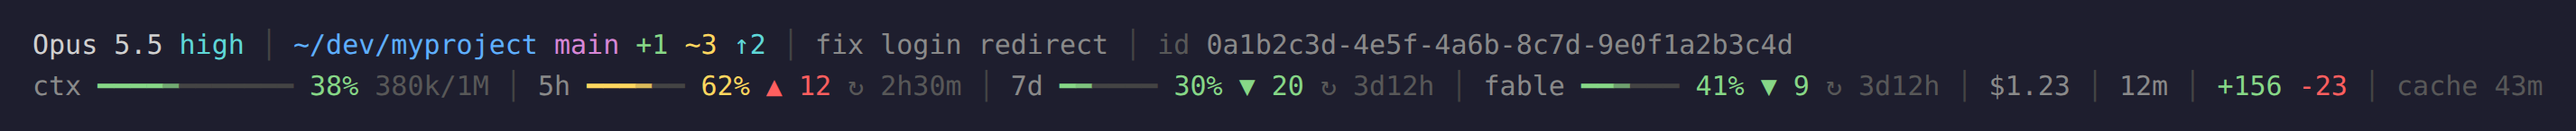
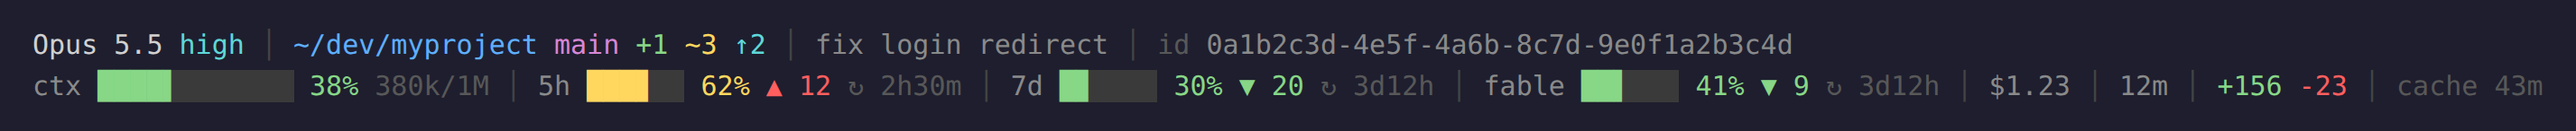
Meters are block bars filled in eighth-cell steps
Brightness was a poor carrier for the fraction: a dim edge cell says
'a little', not 2% or 8%. Length reads exactly, and block glyphs come in
eighths, so a 6-cell meter now resolves about 2% per step. The track is
a background colour, so a part-filled cell has no gap after it.

Claude-Session: https://claude.ai/code/session_01TuKtz7H2CY4JEZf5UWa9un

diff --git a/tests/test_statusline.py b/tests/test_statusline.py
@@ -44,7 +44,7 @@ def test_full_render_wide():
     top, bottom = build(FULL)
     assert top == f"Opus 5.5 xhigh │ ~/dev/myproject main +1 ~3 ↑2 │ PR #12 │ statusline design │ id {SID}"
     assert bottom == (
-        "ctx ━━━━━━━━━━━━ 38% 76k/200k │ 5h ━━━━━━ 42% ▼ 8 ↻ 2h30m │ 7d ━━━━━━ 8% ▼ 42 ↻ 3d12h"
+        "ctx ████▌        38% 76k/200k │ 5h ██▌    42% ▼ 8 ↻ 2h30m │ 7d ▌      8% ▼ 42 ↻ 3d12h"
         " │ $1.23 │ 12m │ +156 -23 │ cache 43m"
     )
 
@@ -67,14 +67,14 @@ def test_pace_delta_is_used_minus_elapsed():
 
 
 def test_empty_and_null_input_does_not_crash():
-    assert build({}) == ["Claude", "ctx ━━━━━━━━━━━━ 0%"]
+    assert build({}) == ["Claude", "ctx " + " " * 12 + " 0%"]
     nulls = {"context_window": {"used_percentage": None, "current_usage": None}, "rate_limits": None, "cost": None}
-    assert build(nulls)[1] == "ctx ━━━━━━━━━━━━ 0%"
+    assert build(nulls)[1] == "ctx " + " " * 12 + " 0%"
 
 
 def test_expired_limit_window_has_no_reset_or_pace():
     d = {"rate_limits": {"five_hour": {"used_percentage": 42, "resets_at": NOW - 5}}}
-    assert build(d)[1].endswith("5h ━━━━━━ 42%")
+    assert build(d)[1].endswith("5h ██▌    42%")
 
 
 def test_cold_cache_and_colour_thresholds():
@@ -83,79 +83,36 @@ def test_cold_cache_and_colour_thresholds():
     assert sl.level(49, 50, 80) == sl.GREEN and sl.level(50, 50, 80) == sl.YELLOW and sl.level(80, 50, 80) == sl.RED
 
 
-def cells_of(raw):
-    """[(r, g, b), ...] one per cell, read back from the escape codes; also checks every cell is a full line."""
-    out, colour = [], None
-    for code, text in re.findall(r"\x1b\[([0-9;]*)m([^\x1b]*)", raw):
-        p = [int(x) for x in code.split(";") if x]
-        if p[:2] == [38, 5]:
-            colour = sl.rgb(p[2])
-        elif p[:2] == [38, 2]:
-            colour = tuple(p[2:5])
-        assert set(text) <= {"━"}, repr(raw)
-        out += [colour] * len(text)
-    return out
+def filled_eighths(raw):
+    """Eighths of a cell lit, read back from the glyphs; also checks the bar's form."""
+    m = re.fullmatch(rf"\x1b\[38;5;\d+;48;5;{sl.TRACK}m(█*)([▏▎▍▌▋▊▉]?)( *)\x1b\[0m", raw)
+    assert m, repr(raw)
+    return len(m.group(1)) * 8 + (sl.PARTS.index(m.group(2)) if m.group(2) else 0)
 
 
-def blends(raw, color):
-    """Per cell, how far its colour sits from track (0) to fill (1)."""
-    track, fill = sl.rgb(sl.TRACK), sl.rgb(color)
-    ch = max(range(3), key=lambda i: abs(fill[i] - track[i]))
-    return [(cell[ch] - track[ch]) / (fill[ch] - track[ch]) for cell in cells_of(raw)]
+@pytest.mark.parametrize("pct,eighths", [(0, 0), (0.1, 1), (1, 1), (50, 48), (100, 96), (140, 96)])
+def test_bar_is_always_exactly_n_cells(pct, eighths):
+    raw = sl.bar(pct, 12, sl.GREEN)
+    assert sl.width(raw) == 12
+    assert filled_eighths(raw) == eighths
 
 
-def lit(raw, color):
-    """How many cells' worth is lit: 1 per fill-coloured cell, and the edge cell's blend undone."""
-    return sum(0 if k == 0 else 1 if k == 1 else (k - sl.EDGE_FLOOR) / (1 - sl.EDGE_FLOOR) for k in blends(raw, color))
-
-
-@pytest.fixture(params=[True, False], ids=["truecolor", "256"])
-def truecolor(request, monkeypatch):
-    monkeypatch.setattr(sl, "TRUECOLOR", request.param)
-    return request.param
-
-
-@pytest.mark.parametrize("pct", [0, 0.1, 1, 2, 8, 20, 42, 50, 99.9, 100, 140])
-def test_bar_is_always_exactly_n_cells_with_no_gap(pct, truecolor):
-    for n in (6, 12):
-        raw = sl.bar(pct, n, sl.GREEN)
-        assert sl.width(raw) == n
-        assert len(cells_of(raw)) == n  # every cell is a full-width line: nothing blank after the fill
-
-
-def test_bar_ends_are_plain(truecolor):
-    track, fill = sl.rgb(sl.TRACK), sl.rgb(sl.RED)
-    assert cells_of(sl.bar(0, 6, sl.RED)) == [track] * 6
-    assert cells_of(sl.bar(50, 6, sl.RED)) == [fill] * 3 + [track] * 3
-    assert cells_of(sl.bar(100, 6, sl.RED)) == cells_of(sl.bar(140, 6, sl.RED)) == [fill] * 6
-
-
-def test_bar_tells_small_percentages_apart(truecolor):
+def test_bar_resolves_small_differences():
     # 2% and 20% used to light the same single cell of a 6-cell meter
-    two, eight, twenty = (sl.bar(p, 6, sl.GREEN) for p in (2, 8, 20))
-    assert len({two, eight, twenty}) == 3
-    assert cells_of(two)[0] not in (sl.rgb(sl.TRACK), sl.rgb(sl.GREEN))  # lit, but not a whole cell
-    assert cells_of(twenty)[0] == sl.rgb(sl.GREEN)
+    assert filled_eighths(sl.bar(2, 6, sl.GREEN)) == 1
+    assert filled_eighths(sl.bar(8, 6, sl.GREEN)) == 4
+    assert filled_eighths(sl.bar(20, 6, sl.GREEN)) == 10
+    for cells in (6, 12):
+        seen = [filled_eighths(sl.bar(p / 10, cells, sl.GREEN)) for p in range(0, 1001)]
+        assert seen == sorted(seen)
+        assert set(seen) == set(range(cells * 8 + 1))  # every eighth step is reachable
+        assert seen[0] == 0 and seen[1] == 1 and seen[1000] == cells * 8
 
 
-@pytest.mark.parametrize("color", [sl.GREEN, sl.YELLOW, sl.RED])
-def test_bar_shows_the_percentage_it_was_given(color, monkeypatch):
-    monkeypatch.setattr(sl, "TRUECOLOR", True)
-    for n in (6, 12):
-        seen = []
-        for tenth in range(0, 1001):
-            pct = tenth / 10
-            raw = sl.bar(pct, n, color)
-            assert abs(lit(raw, color) - pct / 100 * n) < 0.02, (pct, n)  # within 2% of one cell
-            seen.append(sum(blends(raw, color)))
-        assert seen == sorted(seen)  # more used never draws as less light
-
-
-def test_bar_edge_is_never_mistaken_for_empty(monkeypatch):
-    # without 24-bit colour the blend snaps to the 256 palette; it must still not land on the track colour
-    monkeypatch.setattr(sl, "TRUECOLOR", False)
-    for color in (sl.GREEN, sl.YELLOW, sl.RED):
-        assert cells_of(sl.bar(0.1, 6, color))[0] != sl.rgb(sl.TRACK)
+def test_bar_has_no_gap_after_the_fill():
+    # one colour run for the whole meter: the track is the background of every cell, part-filled one included
+    raw = sl.bar(42, 6, sl.GREEN)
+    assert raw.count("\x1b[") == 2 and f";48;5;{sl.TRACK}m" in raw
 
 
 def test_parse_git_porcelain_v2():
@@ -244,12 +201,12 @@ def test_fable_meter_renders_between_the_weekly_limit_and_the_cost(tmp_path):
     fresh = lambda now: sl.scoped_limits(now, usage_cache(tmp_path, [WEEKLY_ALL, FABLE]))
     bottom = build(FULL, scoped=fresh)[1]
     # half the week gone, 48% used: 2 under pace
-    assert "│ 7d ━━━━━━ 8% ▼ 42 ↻ 3d12h │ fable ━━━━━━ 48% ▼ 2 ↻ 3d12h │ $1.23 │" in bottom
+    assert "│ 7d ▌      8% ▼ 42 ↻ 3d12h │ fable ██▉    48% ▼ 2 ↻ 3d12h │ $1.23 │" in bottom
 
 
 def test_an_old_reading_says_how_old_it_is(tmp_path):
     stale = lambda now: sl.scoped_limits(now, usage_cache(tmp_path, [FABLE], fetched=NOW - 3 * 3600))
-    assert "fable ━━━━━━ 48% ▼ 2 ↻ 3d12h (3h00m old) │" in build(FULL, scoped=stale)[1]
+    assert "fable ██▉    48% ▼ 2 ↻ 3d12h (3h00m old) │" in build(FULL, scoped=stale)[1]
 
 
 def test_fable_meter_needs_rate_limit_data_and_never_breaks_the_two_rows(tmp_path):

diff --git a/src/statusline.py b/src/statusline.py
@@ -35,9 +35,8 @@ def c(code, text):
 
 DIM, GREY, WHITE = 240, 245, 252
 GREEN, YELLOW, RED, BLUE, CYAN, MAGENTA, ORANGE = 114, 221, 203, 75, 80, 176, 215
-TRACK = 238  # the unfilled part of a meter
-EDGE_FLOOR = 0.3
-TRUECOLOR = os.environ.get("COLORTERM") in ("truecolor", "24bit")
+TRACK = 237  # background of the unfilled part of a meter
+PARTS = ["", "▏", "▎", "▍", "▌", "▋", "▊", "▉"]  # a cell filled 0-7 eighths from the left
 
 
 def width(s):
@@ -48,41 +47,15 @@ def level(pct, warn, crit):
     return RED if pct >= crit else YELLOW if pct >= warn else GREEN
 
 
-def rgb(n):
-    """xterm 256-colour index -> (r, g, b); cube and grey ramp only, nothing here uses the first 16."""
-    if n >= 232:
-        return (8 + (n - 232) * 10,) * 3
-    n -= 16
-    return tuple(0 if x == 0 else 55 + x * 40 for x in (n // 36, n % 36 // 6, n % 6))
-
-
-def nearest(r, g, b):
-    """Closest xterm 256-colour index, for terminals without 24-bit colour."""
-    return min(range(16, 256), key=lambda n: sum((a - x) ** 2 for a, x in zip(rgb(n), (r, g, b))))
-
-
-def edge(color, frac):
-    """The part-filled cell: a full-width line whose colour sits between track and fill.
-
-    A terminal cannot draw part of a thin line without leaving a gap, so the fraction is carried by
-    brightness instead. EDGE_FLOOR keeps even 1% visibly apart from an empty cell.
-    """
-    k = EDGE_FLOOR + (1 - EDGE_FLOOR) * frac
-    r, g, b = (round(t + (f - t) * k) for t, f in zip(rgb(TRACK), rgb(color)))
-    if TRUECOLOR:
-        return f"\x1b[38;2;{r};{g};{b}m━{RESET}"
-    return c(nearest(r, g, b), "━")
-
-
 def bar(pct, cells, color):
-    lit = round(max(0.0, min(float(cells), pct / 100 * cells)), 6)
-    full = int(lit)
-    frac = lit - full
-    out = c(color, "━" * full) if full else ""
-    if frac:
-        out += edge(color, frac)
-    rest = cells - full - (1 if frac else 0)
-    return out + (c(TRACK, "━" * rest) if rest else "")
+    # eighth-cell steps: on a 6-cell meter a whole cell is 17%, too coarse to tell 2% from 20%.
+    # The track is a background colour so a part-filled cell has no gap after it.
+    eighths = max(0, min(cells * 8, round(pct / 100 * cells * 8)))
+    if pct > 0 and eighths == 0:
+        eighths = 1
+    full, part = divmod(eighths, 8)
+    fill = "█" * full + PARTS[part]
+    return f"\x1b[38;5;{color};48;5;{TRACK}m{fill}{' ' * (cells - len(fill))}{RESET}"
 
 
 def tokens(n):

diff --git a/scripts/screenshot.py b/scripts/screenshot.py
@@ -37,10 +37,10 @@ def to_html(line):
             open_span = False
         parts = m.group(1).split(";")
         if parts[:2] == ["38", "5"]:
-            out.append(f'<span style="color:{xterm(int(parts[2]))}">')
-            open_span = True
-        elif parts[:2] == ["38", "2"]:
-            out.append(f'<span style="color:rgb({",".join(parts[2:5])})">')
+            style = f"color:{xterm(int(parts[2]))}"
+            if parts[3:5] == ["48", "5"]:
+                style += f";background:{xterm(int(parts[5]))}"
+            out.append(f'<span style="{style}">')
             open_span = True
     out.append(html.escape(line[pos:]))
     return "".join(out) + ("</span>" if open_span else "")

diff --git a/README.md b/README.md
@@ -70,7 +70,7 @@ Claude Code keeps the last answer it fetched for that screen in its config file 
 
 Things to know:
 
-- The number is only as fresh as that cache. Opening `/usage` in any session refreshes it. Past an hour old, the meter says so: `fable ━━━━━━ 48% ▼ 2 ↻ 3d12h (3h00m old)`.
+- The number is only as fresh as that cache. Opening `/usage` in any session refreshes it. Past an hour old, the meter says so: `fable ██▉    48% ▼ 2 ↻ 3d12h (3h00m old)`.
 - A reading whose week has already reset is not shown.
 - That file is not a documented interface. If its shape changes, the meter disappears and nothing else breaks.
 
